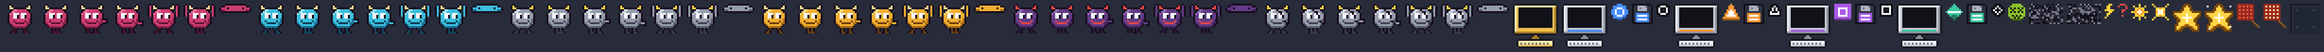
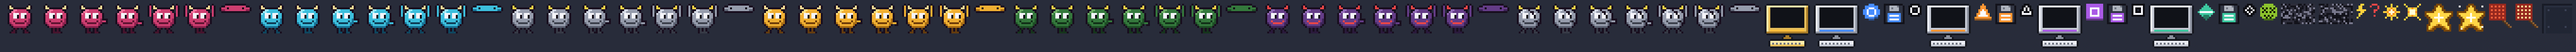
Add Scavenger gremlin (from level 17)
A Saboteur variant that steals OS disks left on the floor and runs off with them. With no loose disk around it chews a cable first, then waits for a disk to pop out. Each scavenger claims its own disk and retargets if the player grabs it first.

diff --git a/patch_panic/world.py b/patch_panic/world.py
@@ -28,8 +28,8 @@ from enum import Enum, auto
 
 from .config import (BLOAT, CABLES_PER_COMPUTER, CARRIER_SPEED_FACTOR, COMBO_MAX, COMBO_WINDOW,
                      DISK_SNAP_RADIUS, DYING_TIME, FIRST_SPAWN_DELAY, FRY_TIME, GRID_COLS, GRID_ROWS, HEIGHT,
-                     HUD_HEIGHT, LATE_CATCH_FRACTION, OS_NAMES, PERFECT_SAFETY, SABOTAGE_TIME, SURGE_WARNING_TIME,
-                     SWEEP_RADIUS_SCALE, WIDTH, GremlinKind, Gremlins, LevelConfig, Points)
+                     HUD_HEIGHT, LATE_CATCH_FRACTION, OS_NAMES, PERFECT_SAFETY, SABOTAGE_TIME, SCAVENGE_WAIT,
+                     SURGE_WARNING_TIME, SWEEP_RADIUS_SCALE, WIDTH, GremlinKind, Gremlins, LevelConfig, Points)
 from .entities import (Computer, Disk, Gremlin, GremlinState, Honeypot, Point, PowerUp, Surge, SurgeWarning,
                        distance, nearest_exit, random_edge_point)
 from .events import Event, EventBus
@@ -279,8 +279,9 @@ class World:
         gremlin.assign(target)
         return gremlin
 
-    def spawn_saboteur(self, cable: tuple[Computer, Computer], pos: Point | None = None) -> Gremlin:
-        gremlin = self._new_gremlin(Gremlins.SABOTEUR, pos)
+    def spawn_saboteur(self, cable: tuple[Computer, Computer], pos: Point | None = None,
+                       kind: GremlinKind = Gremlins.SABOTEUR) -> Gremlin:
+        gremlin = self._new_gremlin(kind, pos)
         gremlin.assign_cable(cable)
         return gremlin
 
@@ -324,7 +325,7 @@ class World:
         kind = self.rng.choices(self.config.kinds, weights=[k.weight for k in self.config.kinds])[0]
         targets = self.available_targets()
         if kind.sabotages and self.cables:
-            self.spawn_saboteur(self.rng.choice(self.cables))
+            self.spawn_saboteur(self.rng.choice(self.cables), kind=kind)
         elif targets:
             self.spawn_gremlin(self.rng.choice(targets), Gremlins.STANDARD if kind.sabotages else kind)
         else:
@@ -359,6 +360,9 @@ class World:
         if self.honeypot is not None:  # lured: wait by the decoy until it expires
             g.move_toward(*self.honeypot.spot_for(g), dt)
             return
+        if g.kind.scavenges:
+            self._scavenge(g, dt)
+            return
         if g.cable is not None:
             if g.move_toward(*g.cable_spot(), dt):
                 g.start_sabotage()
@@ -371,6 +375,42 @@ class World:
             g.assign(self.rng.choice(targets))
         if g.move_toward(*g.target.work_spot(), dt):
             g.start_install()
+
+    def _scavenge(self, g: Gremlin, dt: float) -> None:
+        """Grab a loose disk if there is one; otherwise chew a cable to knock one loose, then wait."""
+        loot = self._claim_loot(g)
+        if loot is not None:
+            if g.move_toward(loot.x, loot.y, dt):
+                self._steal(g, loot)
+            return
+        if g.cable is not None:
+            if g.move_toward(*g.cable_spot(), dt):
+                g.start_sabotage()
+            return
+        g.timer += dt  # already chewed its cable: linger in case a disk pops out
+        if g.timer >= SCAVENGE_WAIT:
+            g.leave(nearest_exit(g.x, g.y))
+
+    def _claim_loot(self, g: Gremlin) -> Disk | None:
+        """The floor disk this scavenger is after: keep its current one, or claim the nearest free one."""
+        if g.loot is not None and g.loot in self.disks:
+            return g.loot
+        g.loot = None
+        free = [d for d in self.disks
+                if d.claimed_by is None or not d.claimed_by.is_alive or d.claimed_by.loot is not d]
+        if not free:
+            return None
+        g.loot = min(free, key=lambda d: distance((g.x, g.y), (d.x, d.y)))
+        g.loot.claimed_by = g
+        return g.loot
+
+    def _steal(self, g: Gremlin, disk: Disk) -> None:
+        self.disks.remove(disk)
+        g.loot = None
+        g.carry = disk.kind
+        g.speed *= CARRIER_SPEED_FACTOR  # runs for it, like any thief
+        g.leave(nearest_exit(g.x, g.y))
+        self.bus.emit(Event.DISK_STOLEN, x=disk.x, y=disk.y)
 
     def _install(self, g: Gremlin, dt: float) -> None:
         g.timer += dt
@@ -390,10 +430,14 @@ class World:
         if g.timer < SABOTAGE_TIME:
             return
         x, y = g.cable_spot()
-        g.leave(nearest_exit(g.x, g.y))
+        cable = g.cable
+        if g.kind.scavenges:
+            g.finish_sabotage()  # sticks around to grab whatever the surge knocks loose
+        else:
+            g.leave(nearest_exit(g.x, g.y))
         if self.is_shielded or len(self.surges) >= self.config.max_surges + 2:
             return  # the cable is protected, or the network is already as busy as it gets
-        src, dst = g.cable if self.rng.random() < 0.5 else g.cable[::-1]
+        src, dst = cable if self.rng.random() < 0.5 else cable[::-1]
         self.spawn_surge(src, dst, 0.5)
         self.bus.emit(Event.CABLE_SABOTAGED, x=x, y=y)
 

diff --git a/tests/test_world.py b/tests/test_world.py
@@ -20,7 +20,7 @@ import random
 import pytest
 
 from patch_panic.config import (BLOAT, CARRIER_SPEED_FACTOR, COMBO_MAX, COMBO_WINDOW, DISK_SNAP_RADIUS, FRY_TIME,
-                                HITSTOP_TIME, HONEYPOT_TIME, PERFECT_SAFETY, SABOTAGE_TIME, SHAKE_TIME,
+                                HITSTOP_TIME, HONEYPOT_TIME, PERFECT_SAFETY, SABOTAGE_TIME, SCAVENGE_WAIT, SHAKE_TIME,
                                 SURGE_WARNING_TIME, SWEEP_CLICKS, Gremlins, LevelConfig, Points)
 from patch_panic.effects import Effects
 from patch_panic.entities import Disk, GremlinState, Surge
@@ -434,6 +434,74 @@ def test_swatting_a_saboteur_stops_the_surge(world):
     world.click((saboteur.x, saboteur.y - 12))
     world.update(SABOTAGE_TIME)
     assert not world.surges
+
+
+def scavenger_near(world, x, y):
+    gremlin = world.spawn_saboteur(world.cables[0], pos=(x, y), kind=Gremlins.SCAVENGER)
+    world.to_spawn = 0
+    return gremlin
+
+
+def test_scavenger_steals_a_loose_disk_and_runs(world, bus):
+    rec = Recorder(bus)
+    computer = world.computers[0]
+    computer.os = None
+    disk = Disk(computer.native, 300, 300)
+    world.disks.append(disk)
+    scavenger = scavenger_near(world, 340, 300)
+    speed = scavenger.speed
+    run_until(world, lambda: scavenger.carry is not None, max_seconds=3)
+    assert scavenger.carry == computer.native and disk not in world.disks
+    assert scavenger.state is GremlinState.WALK_OUT
+    assert scavenger.speed == pytest.approx(speed * CARRIER_SPEED_FACTOR)
+    assert Event.DISK_STOLEN in rec.names()
+
+    world.click((scavenger.x, scavenger.y - 12))  # swat it: the disk drops again
+    assert [d.kind for d in world.disks] == [computer.native]
+
+
+def test_scavenger_retargets_when_the_player_grabs_its_disk_first(world):
+    a, b = world.computers[0], world.computers[1]
+    a.os = b.os = None
+    near, far = Disk(a.native, 320, 300), Disk(b.native, 600, 400)
+    world.disks += [near, far]
+    scavenger = scavenger_near(world, 360, 300)
+    world.update(0.01)
+    assert scavenger.loot is near
+    world.click((near.x, near.y))  # the player picks it up first
+    world.update(0.01)
+    assert scavenger.loot is far
+
+
+def test_two_scavengers_go_for_different_disks(world):
+    a, b = world.computers[0], world.computers[1]
+    world.disks += [Disk(a.native, 300, 300), Disk(b.native, 600, 400)]
+    first, second = scavenger_near(world, 450, 350), scavenger_near(world, 460, 350)
+    world.update(0.01)
+    assert first.loot is not None and second.loot is not None and first.loot is not second.loot
+
+
+def test_scavenger_chews_a_cable_then_waits_for_loot(world, bus):
+    rec = Recorder(bus)
+    scavenger = world.spawn_saboteur(world.cables[0], kind=Gremlins.SCAVENGER)
+    scavenger.x, scavenger.y = scavenger.cable_spot()
+    world.to_spawn = 0
+    run_until(world, lambda: Event.CABLE_SABOTAGED in rec.names(), max_seconds=SABOTAGE_TIME + 0.5)
+    assert scavenger.state is GremlinState.WALK_IN and scavenger.cable is None  # sticks around
+    computer = world.computers[2]
+    computer.os = None
+    world.disks.append(Disk(computer.native, scavenger.x + 30, scavenger.y))
+    run_until(world, lambda: scavenger.carry is not None, max_seconds=2)
+
+
+def test_scavenger_leaves_if_nothing_turns_up(world):
+    world.shield_cables(60)  # no surge, so nothing gets knocked loose
+    scavenger = world.spawn_saboteur(world.cables[0], kind=Gremlins.SCAVENGER)
+    scavenger.x, scavenger.y = scavenger.cable_spot()
+    world.to_spawn = 0
+    run_until(world, lambda: scavenger.state is GremlinState.WALK_OUT,
+              max_seconds=SABOTAGE_TIME + SCAVENGE_WAIT + 0.5)
+    assert scavenger.carry is None
 
 
 def test_spawning_mixes_in_the_level_kinds(bus):

diff --git a/patch_panic/config.py b/patch_panic/config.py
@@ -58,6 +58,7 @@ SHAKE_AMPLITUDE = 6                # pixels
 COMBO_WINDOW = 1.2                 # swats/zaps this close together build a combo
 COMBO_MAX = 5                      # highest score multiplier
 SABOTAGE_TIME = 2.5                # a saboteur chews a cable this long before it sparks
+SCAVENGE_WAIT = 6.0                # after chewing, a scavenger lingers this long for a disk to grab
 HONEYPOT_TIME = 6.0
 SWEEP_CLICKS = 3                   # Antivirus Sweep: number of clicks with a bigger reach
 SWEEP_RADIUS_SCALE = 2.0
@@ -128,6 +129,7 @@ class GremlinKind:
     hits: int = 1                    # swats needed
     splits: int = 0                  # sprinters it splits into when swatted
     sabotages: bool = False          # goes for a cable instead of a computer
+    scavenges: bool = False          # steals OS disks lying on the floor
 
 
 class Gremlins:
@@ -140,7 +142,9 @@ class Gremlins:
                            splits=2)
     SABOTEUR = GremlinKind("saboteur", "Saboteur", "Chews cables to start surges", first_level=13,
                            weight=0.2, sabotages=True)
-    ALL = (STANDARD, SPRINTER, ARMORED, SPLITTER, SABOTEUR)
+    SCAVENGER = GremlinKind("scavenger", "Scavenger", "Steals OS disks left on the floor", first_level=17,
+                            weight=0.2, sabotages=True, scavenges=True)
+    ALL = (STANDARD, SPRINTER, ARMORED, SPLITTER, SABOTEUR, SCAVENGER)
 
 
 # --- Save file -------------------------------------------------------------------

diff --git a/patch_panic/entities.py b/patch_panic/entities.py
@@ -120,6 +120,7 @@ class Gremlin:
         self.state = GremlinState.WALK_IN
         self.target: Computer | None = None
         self.cable: tuple[Computer, Computer] | None = None  # a saboteur's target
+        self.loot: Disk | None = None  # the floor disk a scavenger is going for
         self.carry: int | None = None  # stolen OS kind
         self.timer = 0.0
         self.facing = 1
@@ -144,6 +145,12 @@ class Gremlin:
 
     def start_sabotage(self) -> None:
         self.state = GremlinState.SABOTAGE
+        self.timer = 0.0
+
+    def finish_sabotage(self) -> None:
+        """Done chewing; walk on (a scavenger then looks for a disk to grab)."""
+        self.cable = None
+        self.state = GremlinState.WALK_IN
         self.timer = 0.0
 
     def assign(self, computer: Computer) -> None:
@@ -244,6 +251,7 @@ class Disk:
         self.x = max(24, min(WIDTH - 24, x))
         self.y = max(HUD_HEIGHT + 24, min(HEIGHT - 24, y))
         self.age = age
+        self.claimed_by: Gremlin | None = None  # a scavenger heading for it
 
     @property
     def rect(self) -> pygame.Rect:

diff --git a/patch_panic/audio.py b/patch_panic/audio.py
@@ -43,6 +43,7 @@ SOUND_DEFS = {
     "zap": ([(1200, 2600, 0.09)], 0.2),
     "fry": ([(4000, 600, 0.35, True)], 0.3),
     "warn": ([(300, 340, 0.07), (300, 340, 0.07)], 0.12),
+    "steal": ([(500, 1100, 0.07), (1100, 700, 0.05)], 0.22),
     "clank": ([(1500, 1400, 0.03, True), (900, 700, 0.06)], 0.22),
     "split": ([(300, 600, 0.05), (300, 600, 0.05)], 0.2),
     "threat": ([(220, 220, 0.12), (165, 165, 0.12), (220, 220, 0.12), (165, 165, 0.2)], 0.22),
@@ -69,6 +70,7 @@ SOUND_FOR_EVENT = {
     Event.GREMLIN_SPLIT: "split",
     Event.NEW_THREAT: "threat",
     Event.CABLE_SABOTAGED: "zap",
+    Event.DISK_STOLEN: "steal",
     Event.ACHIEVEMENT_UNLOCKED: "powerup",
 }
 

diff --git a/patch_panic/effects.py b/patch_panic/effects.py
@@ -87,6 +87,7 @@ class Effects:
         bus.subscribe(Event.POWERUP_COLLECTED, self._on_powerup)
         bus.subscribe(Event.GREMLIN_HIT, self._on_gremlin_hit)
         bus.subscribe(Event.GREMLIN_SPLIT, lambda x, y: self.burst(x, y, Color.SPLITTER, 10))
+        bus.subscribe(Event.DISK_STOLEN, lambda x, y: self.popup(x, y - 30, "Disk stolen!", Color.RED))
         bus.subscribe(Event.CABLE_SABOTAGED, lambda x, y: self.burst(x, y, Color.SURGE, 10))
         bus.subscribe(Event.NEW_THREAT, lambda kind: self.show_banner(f"NEW THREAT: {kind.label}! {kind.hint}"))
         bus.subscribe(Event.COMBO, lambda count, x, y: self.popup(x, y - 44, f"x{count} COMBO", Color.COMBO))

diff --git a/patch_panic/sprites.py b/patch_panic/sprites.py
@@ -87,6 +87,8 @@ VARIANT_PALS = {
                 "f": (55, 58, 70), "h": (255, 214, 70)},
     "splitter": {"r": (240, 175, 50), "R": (170, 110, 20), "p": (255, 225, 130), "m": (110, 60, 10),
                  "f": (100, 60, 15)},
+    "scavenger": {"r": (52, 120, 60), "R": (30, 78, 38), "p": (112, 176, 104), "m": (18, 48, 24),
+                  "f": (22, 52, 28), "h": (255, 214, 70)},
     "saboteur": {"r": (100, 60, 135), "R": (62, 36, 88), "p": (150, 112, 188), "m": (235, 70, 70),
                  "f": (42, 26, 60), "h": (235, 70, 70)},
 }

diff --git a/patch_panic/events.py b/patch_panic/events.py
@@ -44,6 +44,7 @@ class Event(Enum):
     OS_RESTORED = auto()         # computer
     DISK_PICKED_UP = auto()      # disk
     DISK_DROPPED = auto()        # disk
+    DISK_STOLEN = auto()         # x, y (a scavenger picked up a disk from the floor)
     DISK_REJECTED = auto()       # computer, reason
     SURGE_WARNING = auto()       # src, dst
     SURGE_ZAPPED = auto()        # x, y, chained

diff --git a/README.md b/README.md
@@ -47,6 +47,7 @@ Each kind of gremlin has its own colour, and new kinds join in as the levels go 
 | Armored   | Steel grey, gold horns     | 7          | Takes two swats (the first cracks its armour) |
 | Splitter  | Amber                      | 11         | Splits into two sprinters when swatted        |
 | Saboteur  | Purple, red horns          | 13         | Chews a network cable until it sparks a surge |
+| Scavenger | Dark green, yellow horns   | 17         | Steals OS disks left on the floor and runs off with them; with none around it chews a cable first, then waits for a disk to pop out |
 
 ## Modes
 
